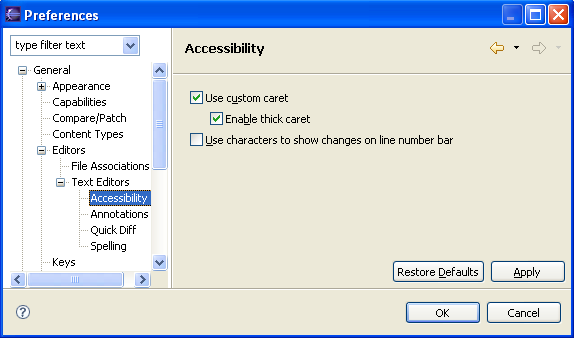
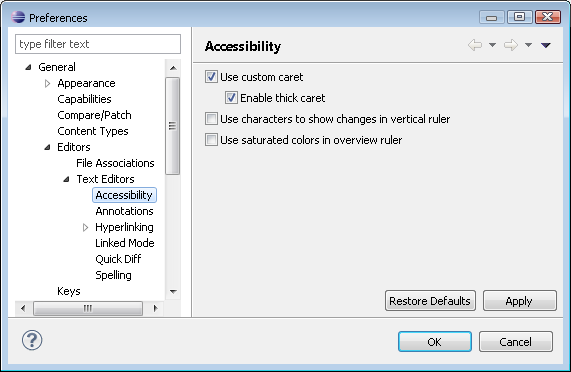
Fixed bug 361821: Add doc for new preference that allows to disable Overview ruler color wash out

Changed region(s): [[0.0, 0.0, 1.0, 1.0]]

diff --git a/bundles/org.eclipse.platform.doc.user/reference/ref-7.htm b/bundles/org.eclipse.platform.doc.user/reference/ref-7.htm
@@ -43,6 +43,11 @@ Color-blind persons can enable this option to show differences with different ch
 in the line number ruler.</td>
 <td>Off</td>
 </tr>
+<tr valign="top">
+<td><b>Use saturated colors in overview ruler</b></td>
+<td>Uses saturated colors for annotations in the overview ruler.</td>
+<td>Off</td>
+</tr>
 </tbody>
 </table>
 
@@ -50,6 +55,10 @@ in the line number ruler.</td>
 </p>
 
 <p><img src="../images/ref-accessibility.png" alt="Accessibility preference page"/>
+</p>
+
+<p><img src="../images/ngrelr.png" alt="Related references" border="0"/><br/>
+	<a href="../concepts/accessibility/text_editor.htm">Configuring accessibility options for textual editors</a><br/>
 </p>
 
 </body>
